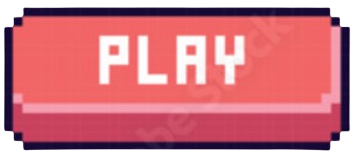
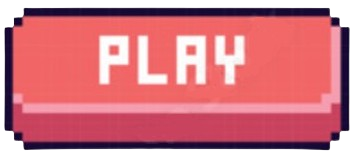
Ameliortauion graphique menus:ajout de hovers

diff --git a/menu.py b/menu.py
@@ -27,10 +27,10 @@ def afficher_menu(events):
         "Quitter": pygame.image.load("image/bouton_quit_menu.png"),
     }
     button_hover_images = {
-        "Commencer le jeu": pygame.image.load("image/bouton_play_menu.png"),
-        "Options": pygame.image.load("image/bouton_option_menu.png"),
-        "Instructions": pygame.image.load("image/bouton_quit_menu.png"),
-        "Quitter": pygame.image.load("image/bouton_quit_menu.png"),
+        "Commencer le jeu": pygame.image.load("image/bouton_play_menu_hover.png"),
+        "Options": pygame.image.load("image/bouton_option_menu_hover.png"),
+        "Instructions": pygame.image.load("image/bouton_quit_menu_hover.png"),
+        "Quitter": pygame.image.load("image/bouton_quit_menu_hover.png"),
     }
     rect_width, rect_height = 350, 150
     
@@ -52,7 +52,7 @@ def afficher_menu(events):
 
         # Vérifier le survol
         if button_rect.collidepoint(pygame.mouse.get_pos()):
-            screen.blit(pygame.transform.scale(button_images[option], (rect_width, rect_height)), (rect_x, rect_y))
+            screen.blit(pygame.transform.scale(button_hover_images[option], (rect_width, rect_height)), (rect_x, rect_y))
             cursor_on_button = True
         else:
             screen.blit(pygame.transform.scale(button_images[option], (rect_width, rect_height)), (rect_x, rect_y))
